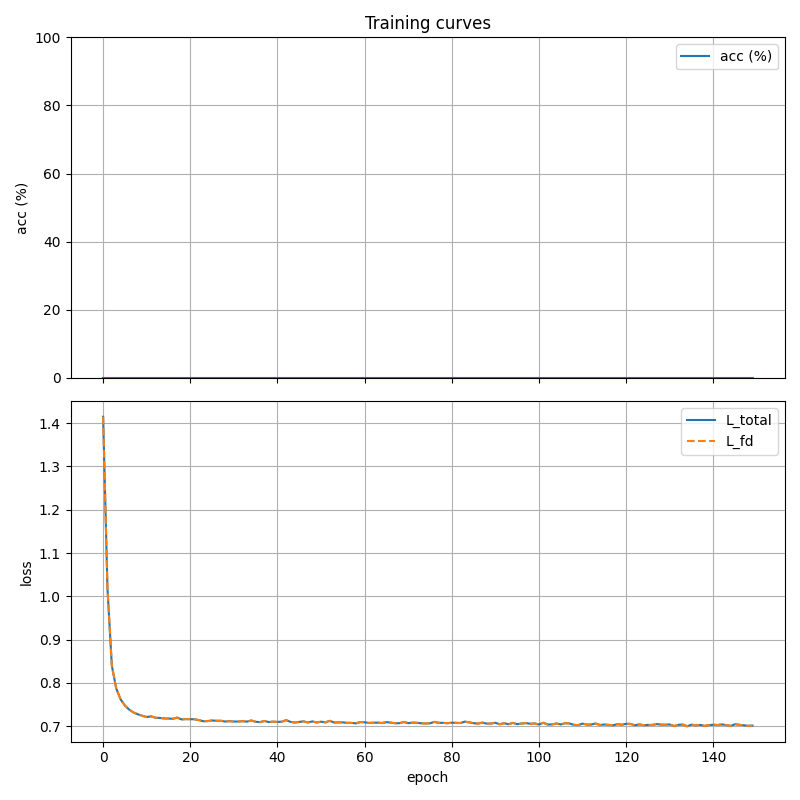
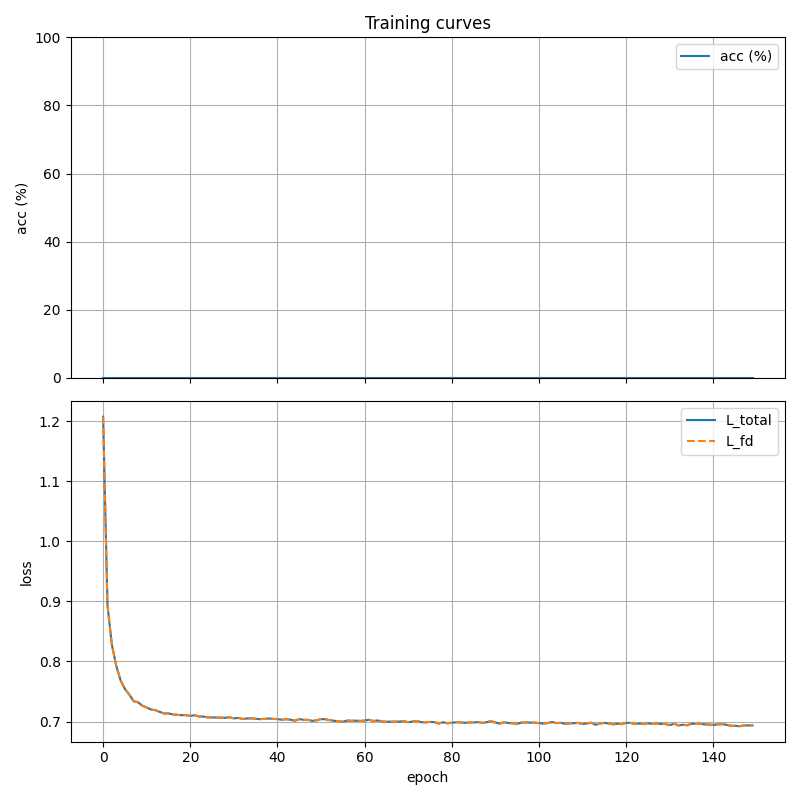
gradient approximation

Changed region(s): [[0.125, 0.625, 0.5625, 0.9062], [0.5938, 0.875, 0.9062, 0.9062], [0.0625, 0.8125, 0.0938, 0.875]]

diff --git a/MY_code/training.py b/MY_code/training.py
@@ -621,7 +621,8 @@ def train_minn_staged(channel, encoder, decoder, controller, physical_sim, train
                       encoder_distiller: EncoderFeatureDistiller | None = None,
                       controller_distiller: ControllerDistiller | None = None,
                       tx_power_dbm=30.0, metasurface_type="sim",
-                      plot_acc=False, plot_path=None, plot_live=False, show_plot_end=True):
+                      plot_acc=False, plot_path=None, plot_live=False, show_plot_end=True,
+                      grad_approx: bool = False, grad_approx_sigma: float = 0.1):
     """
     STAGED training loop for the 4-stage procedure:
     Stage 2: Train Encoder via distillation from Teacher Layers 1-2.
@@ -769,11 +770,28 @@ def train_minn_staged(channel, encoder, decoder, controller, physical_sim, train
                 else:
                     theta_list = controller(H_1=H_1)
 
+                # STOCHASTIC RELAXATION (if enabled for Stage 3)
+                log_probs = None
+                if stage == 3 and grad_approx:
+                    sampled_theta_list = []
+                    log_probs = 0
+                    for theta_mean in theta_list:
+                        # Dist: N(theta_mean, grad_approx_sigma^2)
+                        dist = torch.distributions.Normal(theta_mean, grad_approx_sigma)
+                        theta_sampled = dist.sample() # Sampling theta = theta_mean + sigma * z
+                        log_p = dist.log_prob(theta_sampled).sum(dim=-1)
+                        log_probs = log_probs + log_p #create gaussian vector distribution
+                        # Detach sampled theta to block standard gradient from physical_sim
+                        sampled_theta_list.append(theta_sampled.detach())
+                    theta_list_for_phys = sampled_theta_list
+                else:
+                    theta_list_for_phys = theta_list
+
                 ms_type = str(metasurface_type).lower()
                 if ms_type == "sim":
-                    y_ms = physical_sim(s_ms, theta_list)
+                    y_ms = physical_sim(s_ms, theta_list_for_phys)
                 elif ms_type == "ris":
-                    theta = theta_list[0]
+                    theta = theta_list_for_phys[0]
                     phi = torch.exp(-1j * theta)
                     y_ms = s_ms * phi
                 y_metanet = torch.matmul(H_2_eff, y_ms.unsqueeze(-1)).squeeze(-1)
@@ -790,14 +808,32 @@ def train_minn_staged(channel, encoder, decoder, controller, physical_sim, train
 
             if stage == 3:
                 # Distillation Loss for Stage 3
-                loss_fd = controller_distiller(images, y)
-                loss = loss_fd
+                if grad_approx:
+                    # REINFORCE gradient estimate for controller
+                    # 1. Distiller loss per sample (reduction='none')
+                    loss_fd_per_sample = controller_distiller(images, y, reduction='none')
+
+                    # 2. Surrogate loss for controller: E[L.detach() * log_prob]
+                    # We want to minimize E[L], so the gradient is E[L * grad log pi]
+                    loss_policy = (loss_fd_per_sample.detach() * log_probs).mean()
+
+                    # 3. Connector loss (standard backprop)
+                    loss_connectors = loss_fd_per_sample.mean()
+
+                    # Total surrogate loss
+                    loss = loss_connectors + loss_policy
+
+                    running_fd += loss_connectors.item()
+                else:
+                    loss_fd = controller_distiller(images, y)
+                    loss = loss_fd
+                    running_fd += loss_fd.item()
+
                 optimizer.zero_grad()
                 loss.backward()
                 optimizer.step()
                 running_loss += loss.item()
-                running_fd += loss_fd.item()
-                pbar.set_postfix({'loss_fd': f"{loss_fd.item():.4f}"})
+                pbar.set_postfix({'loss_fd': f"{loss.item():.4f}"})
             else: # stage == 4 or stage == 5
                 # Classification Loss for Stage 4 & 5
                 if combine_mode == "direct": logits = decoder(y, H_D=H_D_eff)
@@ -1356,6 +1392,8 @@ if __name__ == '__main__':
     )
     # Training configuration
     parser.add_argument('--lr', type=float, default=1e-3, help='Learning rate')
+    parser.add_argument('--grad_approx', action='store_true', help='Use gradient approximation (REINFORCE) for controller training in Stage 3')
+    parser.add_argument('--grad_approx_sigma', type=float, default=0.1, help='Sigma (noise std) for gradient approximation stochastic relaxation')
     parser.add_argument('--weight_decay', type=float, default=0, help='Weight decay for optimizer')
     parser.add_argument('--device', type=str, default=None, help='Device to use (cuda/cpu). If None, auto-detect')
     parser.add_argument('--save_path', type=str, default=None,
@@ -1745,12 +1783,6 @@ if __name__ == '__main__':
                     # Layer configs for teacher layers 3 and 4: (channels, h, w)
                     layer_configs = [(128, 14, 14), (256, 7, 7)]
                     controller_distiller = ControllerDistiller(teacher, int(cfg.N_r), layer_configs).to(device)
-
-            train_fn = train_minn_staged
-            extra_kwargs = {
-                "stage": stage,
-                "controller_distiller": controller_distiller,
-            }
         elif bool(cfg.encoder_distill):
             # Phase 1: Train encoder with distillation (Legacy path)
             model_store_name = "encoder_distilled"
@@ -1808,6 +1840,8 @@ if __name__ == '__main__':
             train_fn = train_minn_staged
             extra_kwargs["stage"] = int(cfg.stage)
             extra_kwargs["controller_distiller"] = controller_distiller
+            extra_kwargs["grad_approx"] = bool(getattr(cfg, "grad_approx", False))
+            extra_kwargs["grad_approx_sigma"] = float(getattr(cfg, "grad_approx_sigma", 0.1))
         elif getattr(cfg, "alternating_train", False):
             train_fn = train_minn_alter
             print("[INFO] Using alternating training strategy (0.5 epoch per phase)")
@@ -1869,7 +1903,7 @@ if __name__ == '__main__':
         values = [str(v) for v in args.compare_arg[1:]]
 
         def _cast(name: str, raw: str):
-            if name in {"encoder_distill", "cotrl_CSI", "alternating_train"}:
+            if name in {"encoder_distill", "cotrl_CSI", "alternating_train", "grad_approx"}:
                 return _parse_bool(raw)
             if name in {"channel_type"}:
                 return str(raw)
@@ -1877,7 +1911,7 @@ if __name__ == '__main__':
                 return float(raw)
             if name in {"tx_power_dbm"}:
                 return float(raw)
-            if name in {"noise_std", "lam", "k_factor_db", "lr", "weight_decay"}:
+            if name in {"noise_std", "lam", "k_factor_db", "lr", "weight_decay", "grad_approx_sigma"}:
                 return float(raw)
             if name in {"subset_size", "batchsize", "epochs", "channel_sampling_size", "N_t", "N_r", "N_m", "stage"}:
                 return int(float(raw))
@@ -1890,7 +1924,7 @@ if __name__ == '__main__':
                 f"Unsupported compare_arg '{name}'. Supported: combine_mode, fading_type, noise_std, "
                 "lam, k_factor_db, lr, weight_decay, subset_size, batchsize, epochs, channel_sampling_size, N_t, N_r, N_m, "
                 "encoder_distill, cotrl_CSI, channel_type, geo_pathloss_exp, geo_pathloss_gain_db, tx_power_dbm, "
-                "load_encoder, teacher_path, classifier_path, stage, load_path."
+                "load_encoder, teacher_path, classifier_path, stage, load_path, grad_approx, grad_approx_sigma."
             )
 
         # Headless-safe backend when we only save (no show-at-end)

diff --git a/MY_code/flow.py b/MY_code/flow.py
@@ -1664,7 +1664,7 @@ class ControllerDistiller(nn.Module):
             p.requires_grad = False
         self.teacher.eval()
 
-    def forward(self, images: torch.Tensor, y_received: torch.Tensor, layer_indices: list[int] = [2, 3]):
+    def forward(self, images: torch.Tensor, y_received: torch.Tensor, layer_indices: list[int] = [2, 3], reduction: str = 'mean'):
         """
         Compute distillation loss between received signal and teacher features.
 
@@ -1673,6 +1673,7 @@ class ControllerDistiller(nn.Module):
             y_received: Complex received signal (B, Nr)
             layer_indices: Indices of features in teacher.extract_features() to match.
                            Default [2, 3] corresponds to Layers 3 and 4.
+            reduction: 'mean' or 'none'. If 'none', returns loss per sample (B,).
         """
         with torch.no_grad():
             t_feats, _ = self.teacher.extract_features(images, preReLU=True)
@@ -1683,8 +1684,15 @@ class ControllerDistiller(nn.Module):
             t_feat = t_feats[idx]
             # Map y to same space
             y_mapped = self.connectors[i](y_received)
-            loss_distill += F.mse_loss(y_mapped, t_feat)
 
+            # F.mse_loss with reduction='none' returns (B, C, H, W)
+            l = F.mse_loss(y_mapped, t_feat, reduction='none')
+            # Reduce over all dims except batch
+            l = l.view(l.size(0), -1).mean(dim=1)
+            loss_distill += l
+
+        if reduction == 'mean':
+            return loss_distill.mean()
         return loss_distill
 
 

diff --git a/MY_code/CLI_interface.py b/MY_code/CLI_interface.py
@@ -40,7 +40,7 @@ def main(argv: list[str] | None = None) -> int:
 
 if __name__ == "__main__":
     IDE_COMMAND = "train"
-    IDE_TRAIN_STAGE = 2  # 0: CNN, 1: Encoder, 2: Controller, 3: Decoder, 4: E2E, 5: Debug (Enc+Dec)
+    IDE_TRAIN_STAGE = 5  # 0: CNN, 1: Encoder, 2: Controller, 3: Decoder, 4: E2E, 5: Debug (Enc+Dec)
 
     IDE_TRAIN_ARGS: dict[str, object] = {
         "--N_t": 8,    # Nt
@@ -84,7 +84,9 @@ if __name__ == "__main__":
             "--teacher_path": "models_dict/cnn_classifier_teacher.pth",
             "--load_path": "models_dict/phase1_encoder.pth",
             "--save_path": "models_dict/phase2_ctrl.pth",
-            "--plot_path": "plots/phase2_ctrl.png",
+            "--grad_approx": True, # Toggle here to use gradient approximation
+            "--grad_approx_sigma": 0.1,
+            "--plot_path": "plots/phase2_ctrl_app.png",
         },
         3: { # PHASE 3: Train Decoder (Stage 4)
             "--stage": 4,
